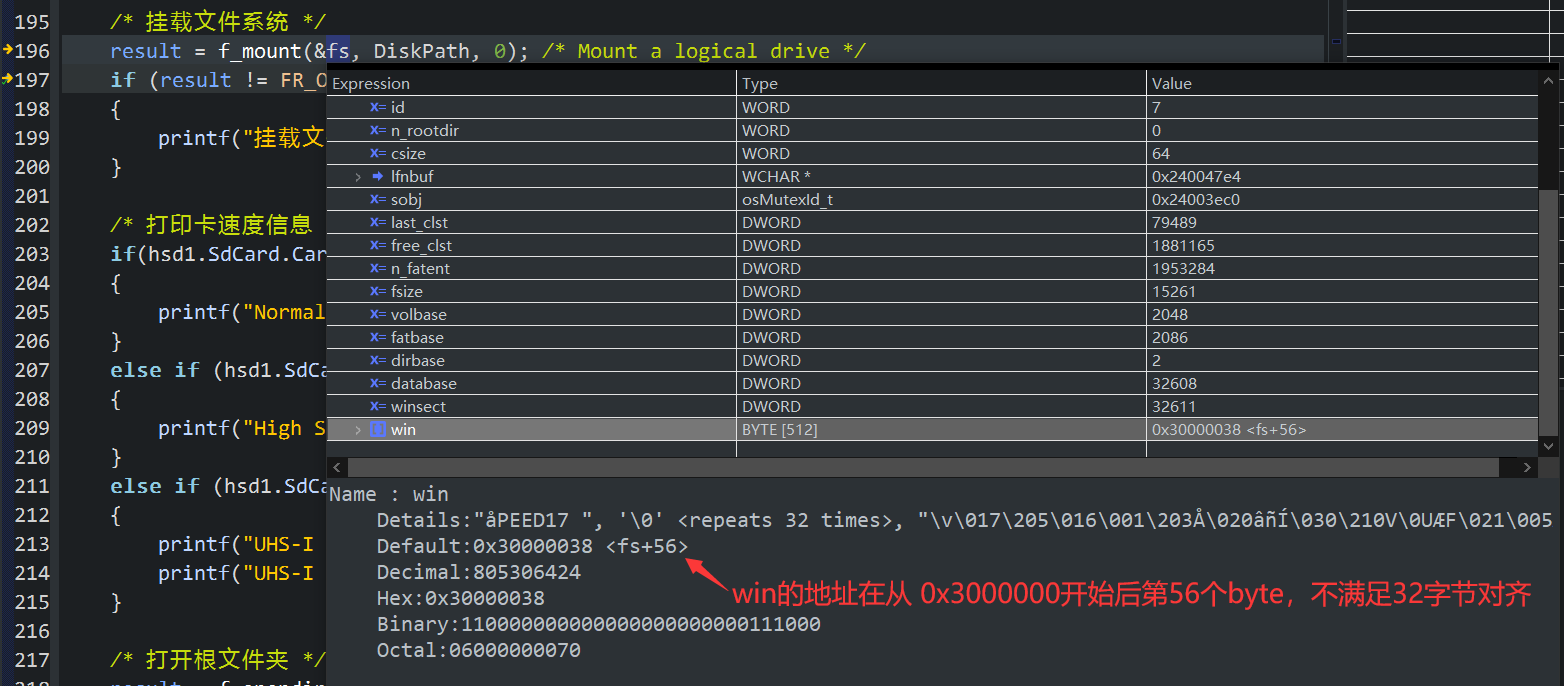
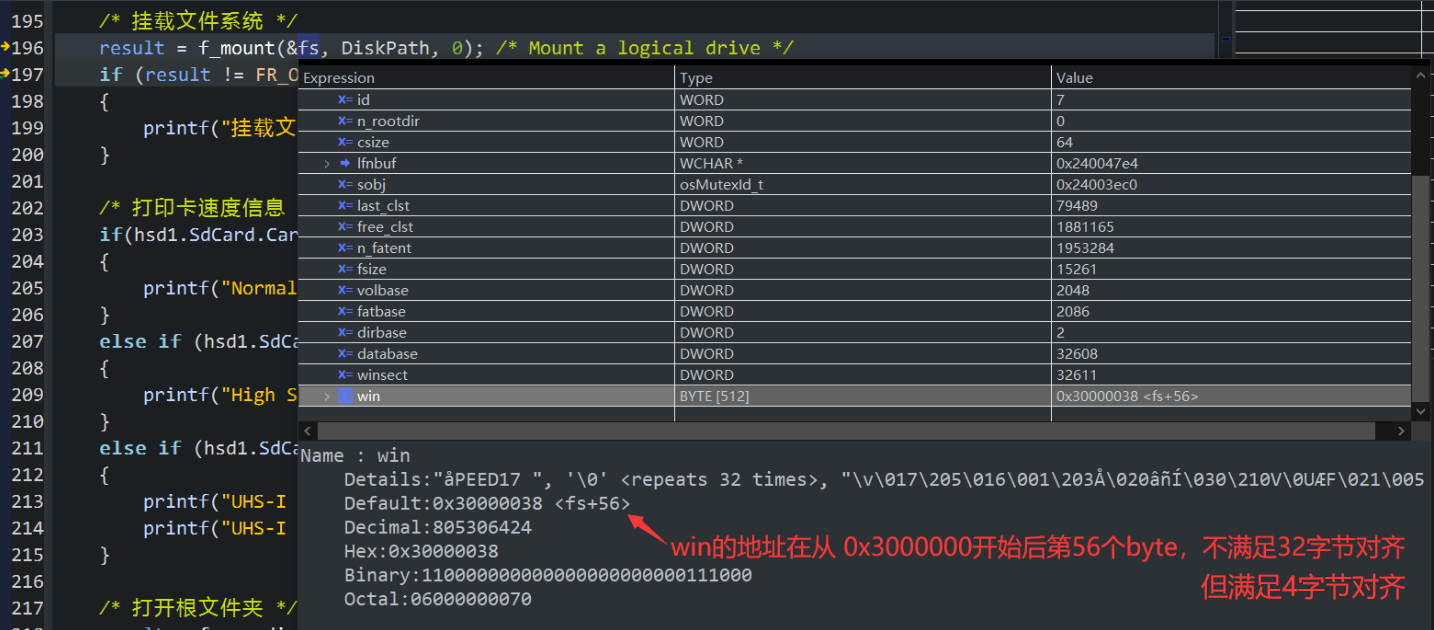
2023-03-17

diff --git a/H750VBT6_FATFS_SDMMC_TF_01/UserApp/demo_sd_fatfs.c b/H750VBT6_FATFS_SDMMC_TF_01/UserApp/demo_sd_fatfs.c
@@ -51,12 +51,12 @@ typedef enum{
 
 /* Private macro -------------------------------------------------------------*/
 /* 将缓冲区编译到指定RAM的宏 */
-#ifndef  RAM_REGION_NO_CACHE
-#define RAM_REGION_NO_CACHE	    // 待定
-//#define  RAM_REGION_NO_CACHE	__attribute__((section(".RAM_D2_Array")))	// 放在.RAM_D2，默认4字节对齐
+#ifndef  RAM_D2
+//#define RAM_D2	    // 待定
+#define  RAM_D2	__attribute__((section(".RAM_D2_Array")))	// 放在.RAM_D2，默认4字节对齐
 #endif
-#ifndef RAM_REGION_NO_CACHE
-#error "macro 'RAM_REGION_NO_CACHE' not defined"
+#ifndef RAM_D2
+#error "macro 'RAM_D2' not defined"
 #endif
 
 /* Exported constants --------------------------------------------------------*/
@@ -84,12 +84,55 @@ char DiskPath[4];
   *   SDMMC_CmdWriteSingleBlock() 和 SDMMC_CmdReadSingleBlock()，而不是使用批量块
   *   读写函数 SDMMC_CmdReadMultiBlock() 和 SDMMC_CmdWriteMultiBlock()
   */
+
+
+
+
+
+
+
+
 /* FatFs的读取临时缓冲区 */
-RAM_REGION_NO_CACHE ALIGN_32BYTES(char FsReadBuf[1024]);
+RAM_D2 ALIGN_32BYTES(char FsReadBuf[1024]);
 /* FatFs的写入临时缓冲区 */
-RAM_REGION_NO_CACHE ALIGN_32BYTES(char FsWriteBuf[1024]) = {"FatFS Write Demo \r\n www.armfly.com \r\n"};
+RAM_D2 ALIGN_32BYTES(char FsWriteBuf[1024]) = {"FatFS Write Demo \r\n www.armfly.com \r\n"};
 /* 测试的读写临时缓冲区 */
-RAM_REGION_NO_CACHE ALIGN_32BYTES(uint8_t g_TestBuf[BUF_SIZE]);
+RAM_D2 ALIGN_32BYTES(uint8_t g_TestBuf[BUF_SIZE]);
+
+RAM_D2 ALIGN_32BYTES(uint8_t  ALIGN_32_1);
+RAM_D2 ALIGN_32BYTES(uint8_t  ALIGN_32_2);
+RAM_D2 ALIGN_32BYTES(uint16_t ALIGN_32_3);
+RAM_D2 ALIGN_32BYTES(uint8_t  ALIGN_32_4);
+RAM_D2 ALIGN_32BYTES(uint16_t ALIGN_32_5);
+RAM_D2 ALIGN_32BYTES(uint32_t ALIGN_32_6);
+RAM_D2 ALIGN_32BYTES(uint8_t  ALIGN_32_7);
+RAM_D2 ALIGN_32BYTES(uint8_t  ALIGN_32_8);
+RAM_D2 ALIGN_32BYTES(uint16_t ALIGN_32_9);
+RAM_D2 ALIGN_32BYTES(uint8_t  ALIGN_32_10);
+RAM_D2 ALIGN_32BYTES(uint16_t ALIGN_32_11);
+RAM_D2 ALIGN_32BYTES(uint32_t ALIGN_32_12);
+
+RAM_D2 uint8_t  g_1;
+RAM_D2 uint8_t  g_2;
+RAM_D2 uint16_t g_3;
+RAM_D2 uint8_t  g_4;
+RAM_D2 uint16_t g_5;
+RAM_D2 uint32_t g_6;
+
+
+
+
+
+
+
+
+
+
+
+
+
+
+
 
 /* Private function prototypes -----------------------------------------------*/
 static void DispMenu(void);
@@ -138,6 +181,11 @@ static const char * FR_Table[]=
 void DemoFatFS(uint8_t cmd)
 {
 	printf("\r\n");
+	printf("%d\r\n",
+			ALIGN_32_1 + ALIGN_32_2 + ALIGN_32_3 + ALIGN_32_4 +
+			g_1 + g_2 + g_3 + g_4);
+
+
 	switch (cmd)
 	{
 	    case '0':

diff --git a/H750VBT6_FATFS_SDMMC_TF_01/UserApp/sd_diskio.c b/H750VBT6_FATFS_SDMMC_TF_01/UserApp/sd_diskio.c
@@ -281,6 +281,7 @@ DRESULT SD_read(BYTE lun, BYTE *buff, DWORD sector, UINT count)
   }
 
 #if defined(ENABLE_SCRATCH_BUFFER)
+/* buff是32字节对齐 */
   if (!((uint32_t)buff & 0x1f))
   //                     ^~~~   从0x3修改为0x1f
   {
@@ -333,6 +334,8 @@ DRESULT SD_read(BYTE lun, BYTE *buff, DWORD sector, UINT count)
 
 #if defined(ENABLE_SCRATCH_BUFFER)
     }
+
+/* buff不是32字节对齐 */
     else
     {
       /* Slow path, fetch each sector a part and memcpy to destination buffer */

diff --git a/H750VBT6_FATFS_SDMMC_TF_01/README.md b/H750VBT6_FATFS_SDMMC_TF_01/README.md
@@ -4,7 +4,142 @@
 
 在 H750VBT6_chapter_88 基础上修改，使能cache，评测fatfs+sdio方案做 DS-PPK 采样数据的 实时储存的可行性
 
-## 开Cache后的一系列问题
+## Cache
+
+### 开Cache的坑
+
+按照 sd_diskio.c 中介绍的方法，将ENABLE_SD_DMA_CACHE_MAINTENANCE 和 ENABLE_SCRATCH_BUFFER 使能就行：
+
+```c
+#define ENABLE_SD_DMA_CACHE_MAINTENANCE  1
+#define ENABLE_SCRATCH_BUFFER
+```
+
+但调试时却看到 FATFS 全局变量内很多数据都是乱码，关闭这两个选项并关闭Cache（注释掉 main 函数中的 SCB_EnableDCache();）后测试SD卡才正常，甚是纳闷，2号命令测试如下表
+
+| 关D-cache，2号测试命令，测试OK，FATFS fs变量的成员win[512] 内都是文件名的字符 | 开D-cache，2号测试命令，报错，FATFS fs变量的成员win[512] 内都是乱码 |
+| ------------------------------------------------------------ | ------------------------------------------------------------ |
+| ![关D-cache的2](Images/关D-cache的2.png)                     | ![开D-cache的第一次2号测试命令，SD_read和SD_write都是0x3](Images/开D-cache的第一次2号测试命令，SD_read和SD_write都是0x3.png) |
+
+将`SD_read()`中的0x3改为0x1f后，再次配置为开Cache，总算乱码消失+测试SD卡正常：
+
+![开D-cache的第一次2号测试命令，SD_read是0x1f，SD_write是0x3](Images/开D-cache的第一次2号测试命令，SD_read是0x1f，SD_write是0x3.png)
+
+这么改的原因来自这篇文章：[STM32+SDIO+FreeRTOS+FATFS在带有DMA和CACHE的平台的调试注意要点](https://blog.csdn.net/Fairchild_1947/article/details/122271451) 的分析，简述就是 FATFS 类型的 fs 变量成员 win[512] 编译后在SRAM的地址不是32字节对齐的，SD_read()中对D-Cache使用（CMSIS数据高速缓存维护API）需要被操作的地址是32字节对齐，但该函数内语句`if (!((uint32_t)buff & 0x3))`{...} 中的`!((uint32_t)buff & 0x3)`为 1时，只能说明32bit 地址值 buff **至少4字节对齐**，将0x3修改为 0x1f后，才可判断地址值 buff **至少32字节对齐**
+
+```c
+DRESULT SD_read(BYTE lun, BYTE *buff, DWORD sector, UINT count)
+{
+	...
+#if (ENABLE_SD_DMA_CACHE_MAINTENANCE == 1)
+	uint32_t alignedAddr;
+#endif
+	...
+#if defined(ENABLE_SCRATCH_BUFFER)
+	/* buff是32字节对齐 */
+	if (!((uint32_t)buff & 0x1f))
+		//                     ^~~~   从0x3修改为0x1f
+	{
+#endif
+		/* Fast path cause destination buffer is correctly aligned */
+		ret = BSP_SD_ReadBlocks_DMA((uint32_t*)buff, (uint32_t)(sector), count);
+
+		if (ret == MSD_OK) {
+			...
+			if (BSP_SD_GetCardState() == SD_TRANSFER_OK)
+			{
+				res = RES_OK;
+#if (ENABLE_SD_DMA_CACHE_MAINTENANCE == 1)
+				/*
+			the SCB_InvalidateDCache_by_Addr() requires a 32-Byte aligned address,
+			adjust the address and the D-Cache size to invalidate accordingly.
+				 */
+				alignedAddr = (uint32_t)buff & ~0x1F;
+				SCB_InvalidateDCache_by_Addr((uint32_t*)alignedAddr, count*BLOCKSIZE + ((uint32_t)buff - alignedAddr));
+#endif
+				break;
+			}
+			...
+		}
+
+#if defined(ENABLE_SCRATCH_BUFFER)
+	}
+
+	/* buff不是32字节对齐 */
+	else
+	{
+		/* Slow path, fetch each sector a part and memcpy to destination buffer */
+		int i;
+
+		for (i = 0; i < count; i++)
+		{
+			ret = BSP_SD_ReadBlocks_DMA((uint32_t*)scratch, (uint32_t)sector++, 1);
+			if (ret == MSD_OK )
+			{
+				...
+#if (ENABLE_SD_DMA_CACHE_MAINTENANCE == 1)
+				/*
+				 *
+				 * invalidate the scratch buffer before the next read to get the actual data instead of the cached one
+				 */
+				SCB_InvalidateDCache_by_Addr((uint32_t*)scratch, BLOCKSIZE);
+#endif
+				memcpy(buff, scratch, BLOCKSIZE);
+				buff += BLOCKSIZE;
+			}
+			...
+		}
+
+		if ((i == count) && (ret == MSD_OK ))
+			res = RES_OK;
+	}
+#endif
+	return res;
+}
+```
+
+> ## 为啥 0x1f  可以判断地址是否4字节对齐?
+>
+> - 0x1f 二进制： 00011111
+>
+> 例如将4个不足32字节的变量编译为对齐32字节地址
+> 其地址依次为：0x30010800、0x30010820、0x30010840...
+> 减去0x30010800，简化为 0x00、0x20、0x40、0x60、0x80、0xa0、0xc0、0xe0
+> （最大只能到0xe0，0xe0 + 0x20 等于 0x100，尾数回到 0x00 ）
+>
+> ![](Images/不足32字节的变量对齐32字节地址.png)
+>
+> 列出下表格：""Δ" 表示 "以16进制数表示的32字节对齐地址的最后2位的"
+>
+> | Δ16进制值 | Δ10进制值 | Δ2进制值      | Δ & 0x1f     | !( Δ & 0x1f ) |
+> | --------- | --------- | ------------- | ------------ | ------------- |
+> | 0x00      | 0         | 00000000      | 00000000     | true          |
+> | 0x20      | 32        | 00100000      | 00000000     | true          |
+> | 0x40      | 64        | 01000000      | 00000000     | true          |
+> | 0x60      | 96        | 01100000      | 00000000     | true          |
+> | 0x80      | 128       | 10000000      | 00000000     | true          |
+> | 0xa0      | 160       | 10100000      | 00000000     | true          |
+> | 0xc0      | 192       | 11000000      | 00000000     | true          |
+> | 0xe0      | 224       | 11100000      | 00000000     | true          |
+> | ~~0x100~~ | ~~256~~   | ~~100000000~~ | ~~00000000~~ | ~~true~~      |
+>
+> 秒懂：
+>
+> 对于 & 0xf 判断 4字节对齐，规律依据是 32字节对齐地址的最后 的 5 个bit 必定是 0
+> 对于 & 0x3 判断 4字节对齐，规律依据是 4字节对齐地址的最后 的 2 个bit 必定是 0
+
+所以，& 0x3 会发生对4字节对齐地址执行需要参数是32字节对齐的SCB_InvalidateDCache_by_Addr()，那么根源性问题就是SCB_InvalidateDCache_by_Addr() 参数是 FATFS结构体变量fs的成员win[512]的4字节对齐地址，导致错位产生乱码：
+
+![](Images/FATFS对象成员win的地址不满足32字节对齐.png)
+
+注意，只能将SD_read()中的0x3改为0x1f，不要将 SD_write()中的0x3改为0x1f 
+
+> 按道理应该要修改的，但是0x3才正常真是奇了怪了：
+>
+> 测试：将SD_read()也修改为0x1f
+>
+> >  f_open() 会返回 FR_NO_FILESYSTEM：没有有效的FAT卷
+> > f_write() 会返回 FR_INVALID_OBJECT：文件或者目录对象无效
 
 ### FatFs API报错
 
